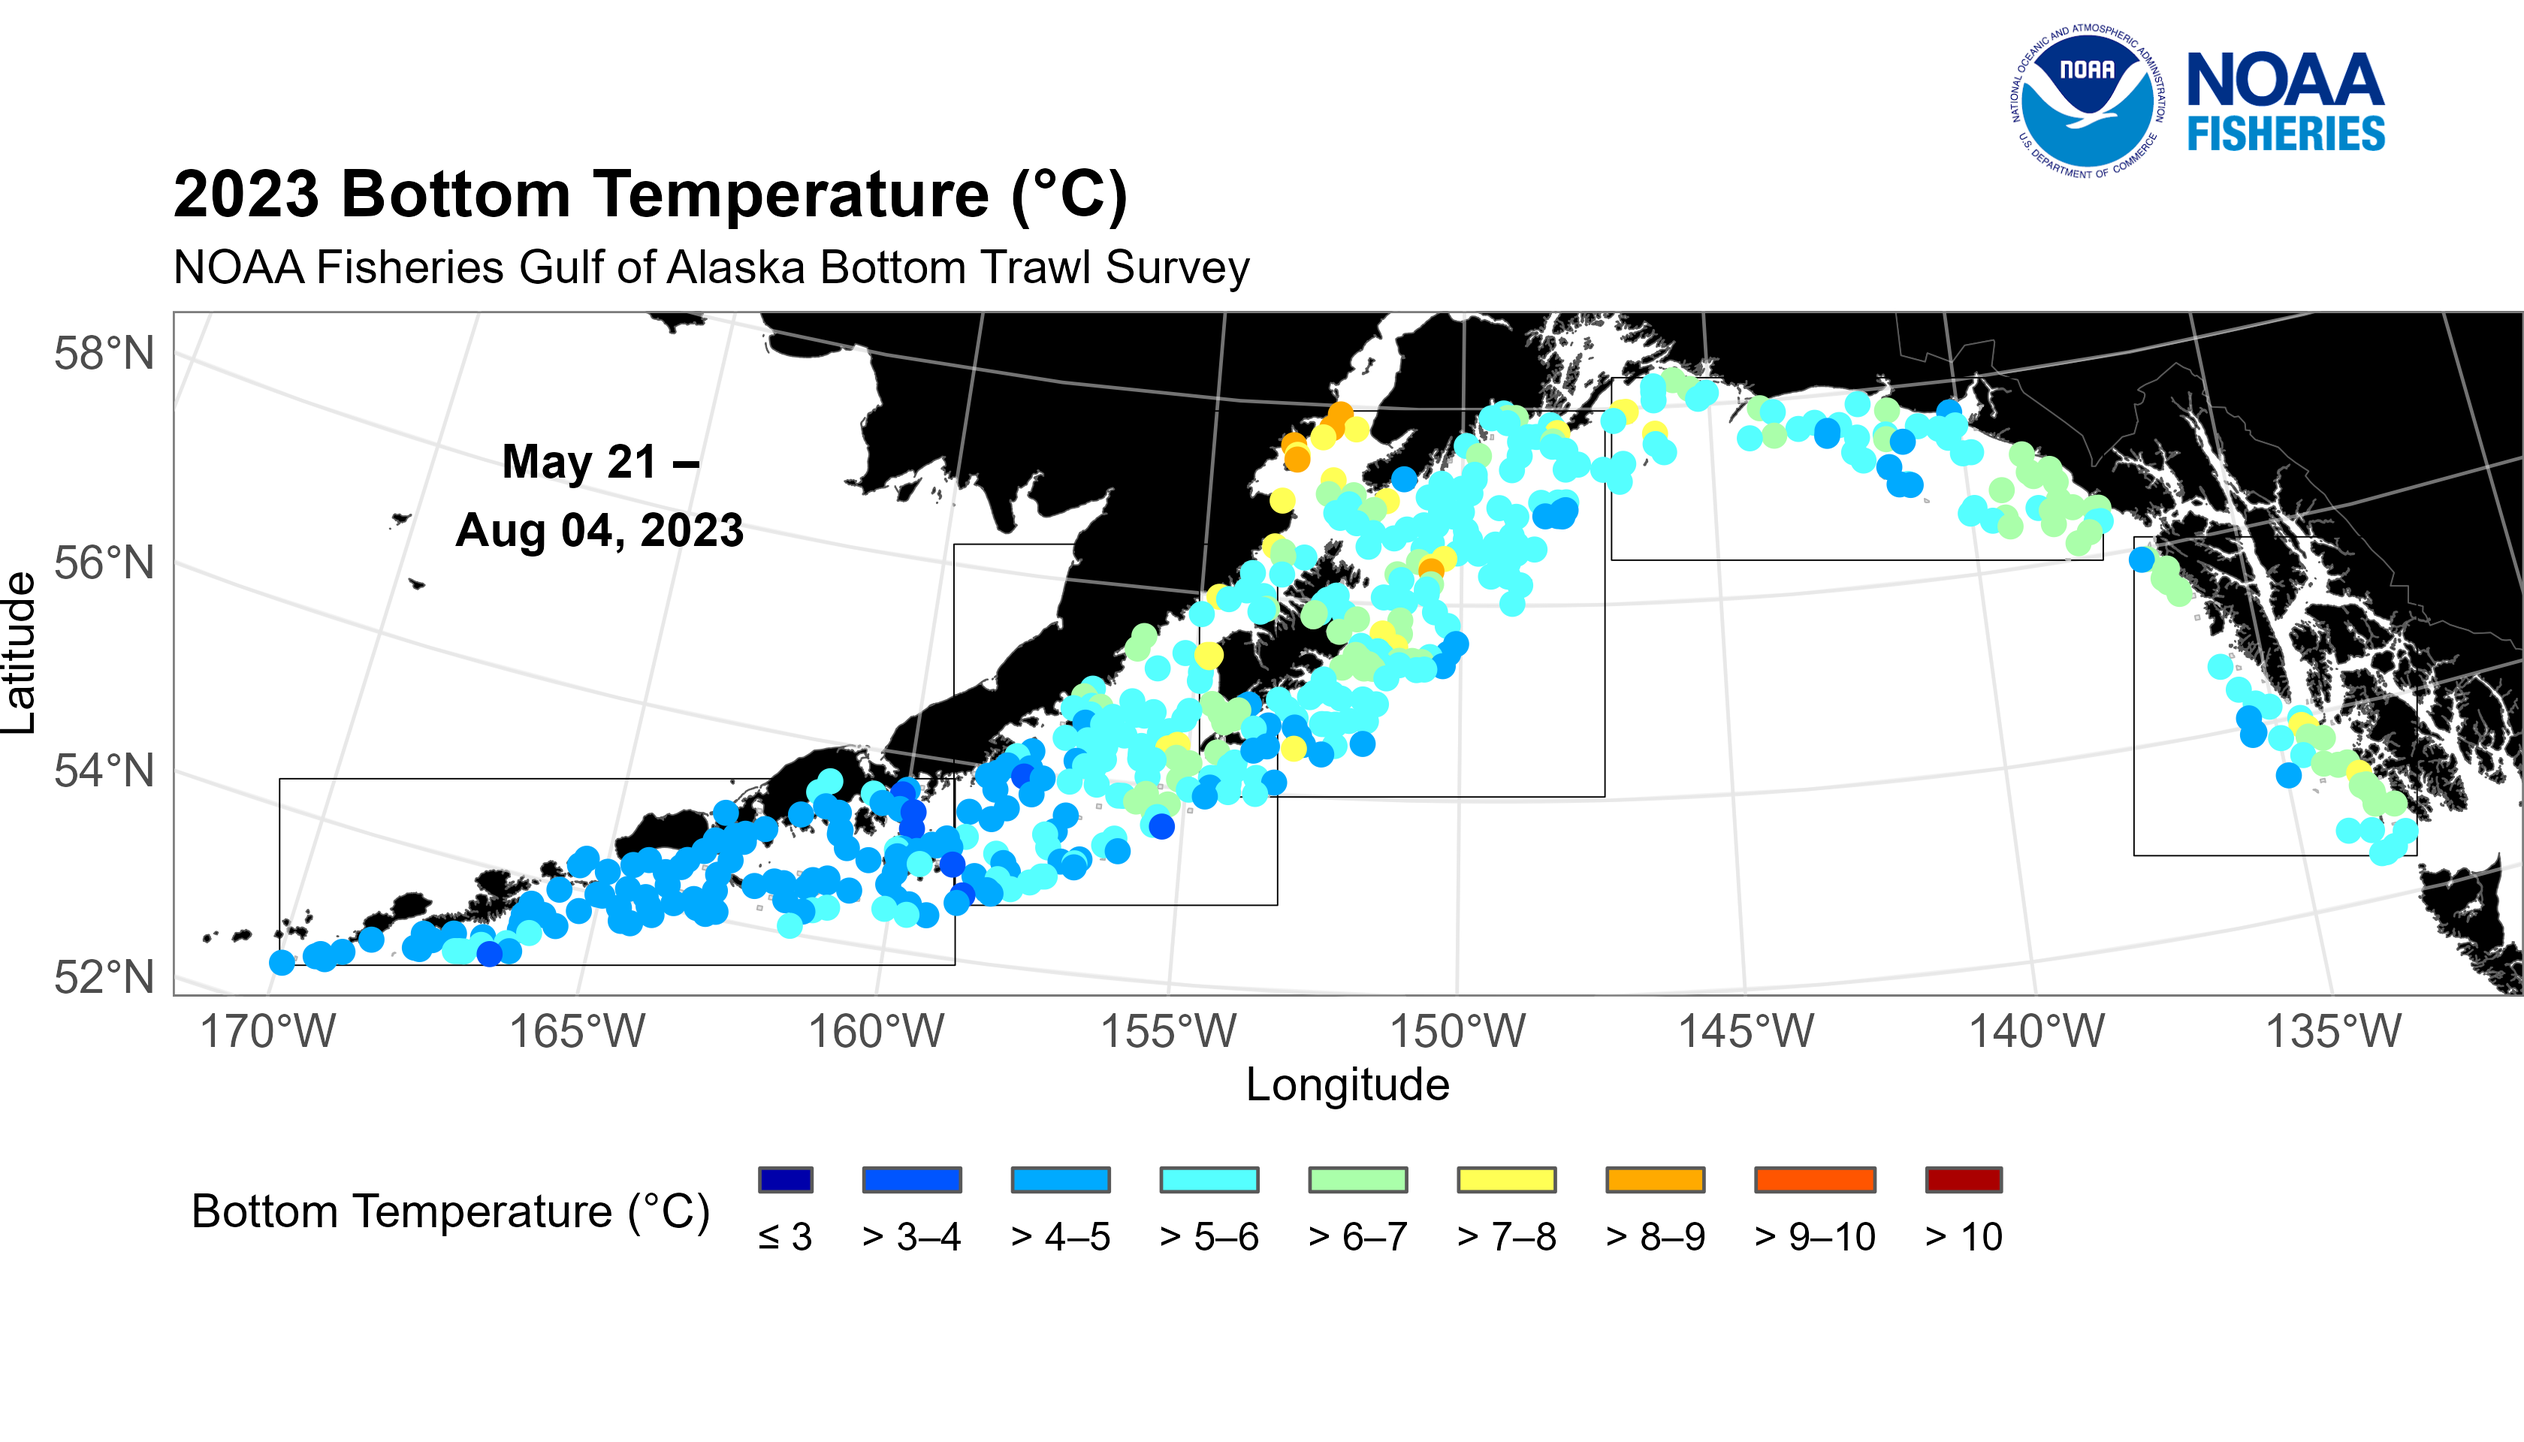
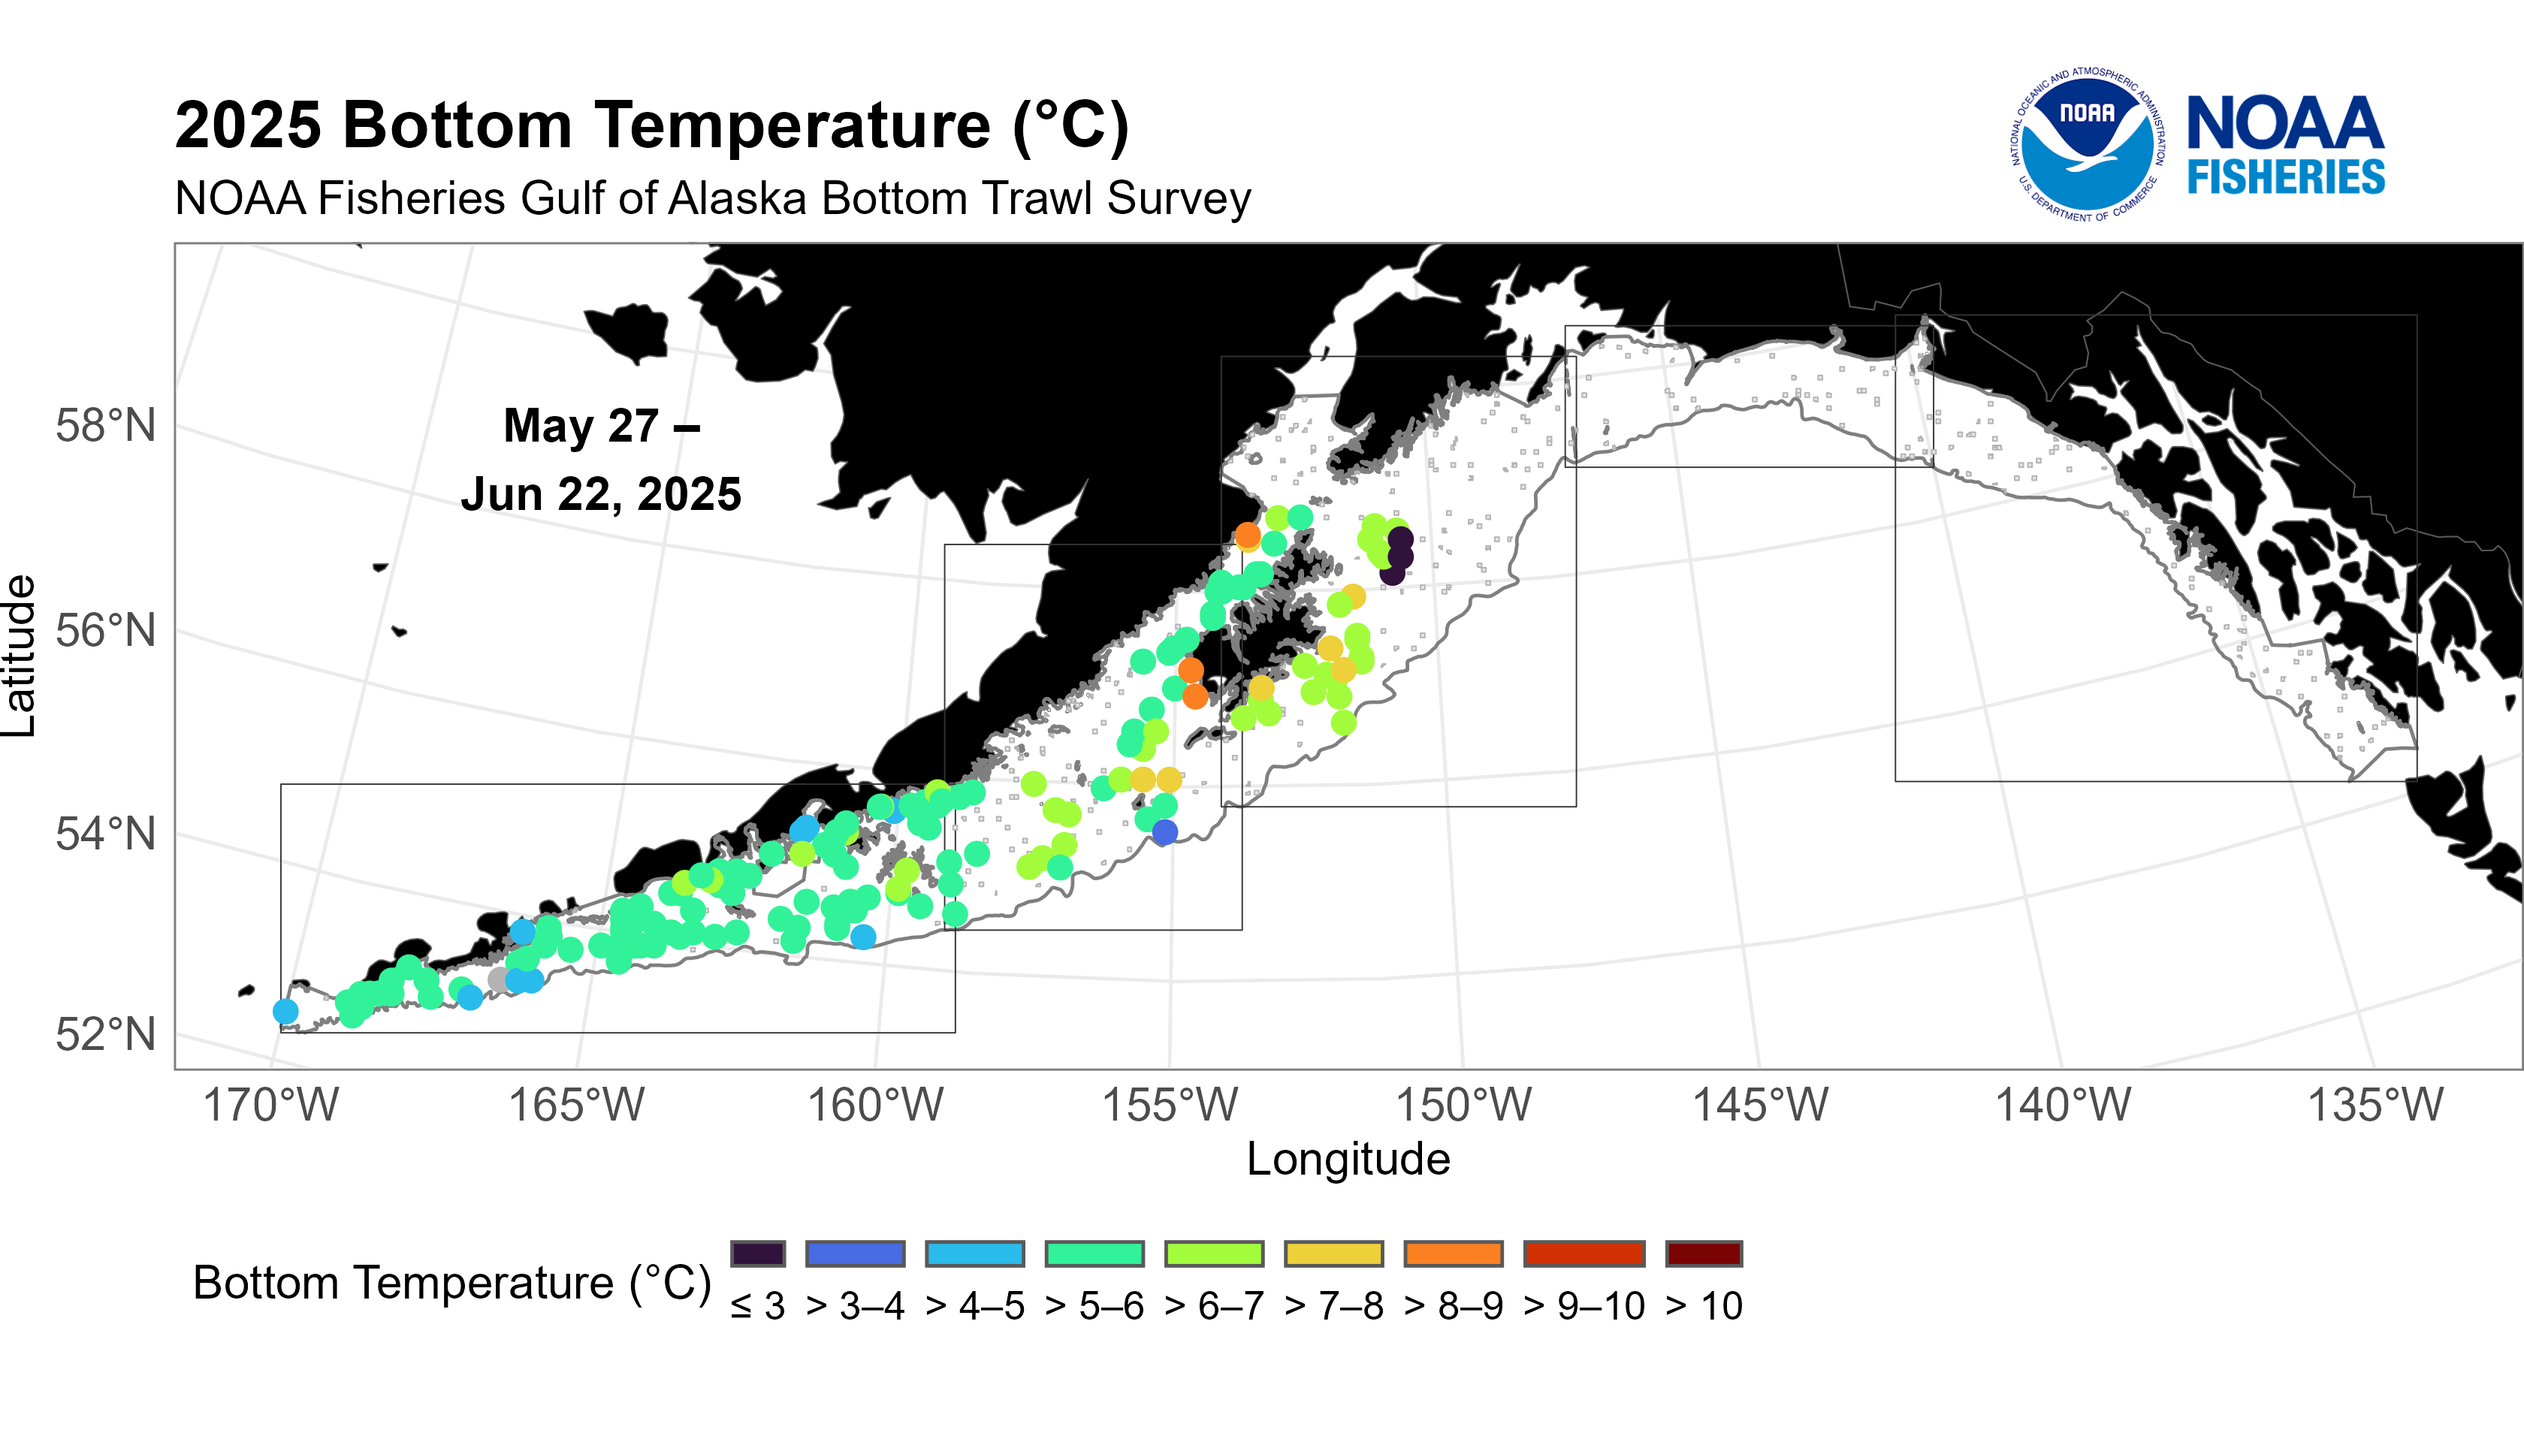
updated example images and readme

diff --git a/README.md b/README.md
@@ -83,6 +83,11 @@ communications team. These plots are displayed on the AFSC website
 
 # Notes
 
+You will need to install
+<https://www.ffmpeg.org/download.html#build-windows> so video files can
+compile using the `magick` package, which works well with Task
+Scheduler.
+
 - [How to set up the task
   scheduler](https://docs.google.com/document/d/1pwBmR6AqgnvUx_AiWYQxtYxIRjWMfdd5EPWwFvpI3Ug/edit)
 - Files are saved to our internal dev FTP server and google drive.
@@ -107,19 +112,15 @@ Find more plot examples
 *were* *surveyed* *by* *the* *F/V* *Ocean* *Explorer.* *No* *stations*
 *were* *surveyed* *by* *the* *F/V* *Alaska* *Provider.* *Credit:* *NOAA*
 *Fisheries*](https://github.com/afsc-gap-products/survey-live-temperature-map/blob/main/examples/current_daily_ai.gif)
-, ![*NOAA* *Fisheries* *scientists* *are* *providing* *information* *on*
-*ocean* *temperatures* *observed* *during* *the* *Gulf* *of* *Alaska*
-*Bottom* *Trawl* *Survey* *in* *2023* *Credit:* *NOAA*
-*Fisheries.*](https://github.com/afsc-gap-products/survey-live-temperature-map/blob/main/examples/current_daily_goa.gif)
-, ![*Map* *of* *the* *ocean* *bottom* *temperatures* *from* *the* *2023*
-*eastern* *and* *northern* *Bering* *Sea* *bottom* *trawl* *surveys*
-*aboard* *the* *F/V* *Northwest* *Explorer* *and* *F/V* *Alaska*
-*Knight.* *Updated* *colors:* *This* *year* *in* *an* *effort* *to*
-*make* *the* *heatmaps* *more* *accessible* *to* *a* *broader*
-*audience* *a* *new* *color* *scheme* *was* *used* *for* *our*
-*heatmaps.* *However,* *given* *feedback* *we* *have* *received* *we*
-*are* *reverting* *back* *to* *the* *colors* *used* *in* *previous*
-*years.* *Credit:* *NOAA*
+, ![*NOAA* *Fisheries* *Alaska* *Fisheries* *Science* *Center*
+*Groundfish* *Assessment* *Program* *is* *conducting* *the* *eastern*
+*Bering* *Sea* *and* *northern* *Bering* *Sea* *bottom* *trawl*
+*surveys.* *The* *near* *real-time* *ocean* *bottom* *temperatures*
+*depicted* *were* *collected* *May* *31-June* *22* *On* *June* *22,*
+*three* *stations* *were* *surveyed* *by* *the* *F/V* *Northwest*
+*Explorer.* *No* *stations* *were* *surveyed* *by* *the* *F/V* *Alaska*
+*Knight.* *There* *are* *8* *stations* *planned* *for* *June* *23*
+*Credit:* *NOAA*
 *Fisheries*](https://github.com/afsc-gap-products/survey-live-temperature-map/blob/main/examples/current_daily_bs.gif)
 , ![*NOAA* *Fisheries* *AFSC* *Groundfish* *Assessment* *Program*
 *conducted* *the* *eastern* *Bering* *Sea* *bottom* *trawl* *survey.*
@@ -134,40 +135,57 @@ Find more plot examples
 *There* *are* *8* *stations* *planned* *for* *June* *22* *Credit:*
 *NOAA*
 *Fisheries*](https://github.com/afsc-gap-products/survey-live-temperature-map/blob/main/examples/current_daily_ebs.gif)
+, ![*NOAA* *Fisheries* *Alaska* *Fisheries* *Science* *Center*
+*Groundfish* *Assessment* *Program* *is* *conducting* *the* *Gulf* *of*
+*Alaska* *bottom* *trawl* *survey.* *The* *near* *real-time* *ocean*
+*bottom* *temperatures* *depicted* *were* *collected* *May* *27-June*
+*22* *On* *June* *22,* *eight* *stations* *were* *surveyed* *by* *the*
+*F/V* *Alaska* *Provider* *and* *six* *stations* *were* *surveyed* *by*
+*the* *F/V* *Ocean* *Explorer.* *Stations* *yet* *to* *be* *sampled*
+*are* *shown* *as* *gray* *dots.* *Credit:* *NOAA*
+*Fisheries*](https://github.com/afsc-gap-products/survey-live-temperature-map/blob/main/examples/current_daily_goa.gif)
 
 ## Blank, Grid-only Plot
 
-![*The* *Aleutian* *Islands* *bottom* *trawl* *survey.* *This* *survey*
-*covers* *the* *Central* *Aleutians,* *Eastern* *Aleutians,* *Southern*
-*Bering* *Sea,* *and* *Western* *Aleutians* *districts.* *Credit:*
-*NOAA*
+![*The* *NA* *bottom* *trawl* *survey.* *This* *survey* *covers* *the*
+*Central* *Aleutians,* *Eastern* *Aleutians,* *South* *Bering* *Sea,*
+*and* *Western* *Aleutians* *districts.* *Credit:* *NOAA*
 *Fisheries*](https://github.com/afsc-gap-products/survey-live-temperature-map/blob/main/examples/current_grid_ai.png)
-, ![*The* *Gulf* *of* *Alaska* *bottom* *trawl* *survey* *region.*
-*This* *survey* *covers* *the* *Shumagin,* *Chirikof,* *Kodiak,*
-*Yakutat,* *and* *Southeastern* *subregions.* *Credit:* *NOAA*
-*Fisheries.*](https://github.com/afsc-gap-products/survey-live-temperature-map/blob/main/examples/current_grid_goa.png)
 , ![*Map* *of* *the* *eastern* *Bering* *Sea* *and* *northern* *Bering*
 *Sea* *2023* *survey* *stations* *with* *the* *50m,* *100m,* *and*
 *200m* *bathymetry* *lines.* *Credit:* *NOAA*
 *Fisheries.*](https://github.com/afsc-gap-products/survey-live-temperature-map/blob/main/examples/current_grid_bs.png)
-, ![*Map* *of* *the* *eastern* *Bering* *Sea* *2024* *survey* *station*
-*grid* *and* *the* *50* *m,* *100* *m,* *and* *200* *m* *bathymetry*
-*lines.* *Credit:* *NOAA*
+, ![*Map* *of* *the* *eastern* *Bering* *Sea* *and* *northern* *Bering*
+*Sea* *2025* *survey* *station* *grid* *and* *the* *50* *m,* *100* *m,*
+*and* *200* *m* *bathymetry* *lines.* *Credit:* *NOAA*
 *Fisheries*](https://github.com/afsc-gap-products/survey-live-temperature-map/blob/main/examples/current_grid_ebs.png)
+, ![*The* *Gulf* *of* *Alaska* *bottom* *trawl* *survey.* *This*
+*survey* *covers* *the* *Shumagin,* *Chirikof,* *Kodiak,* *Yakutat,*
+*and* *Southeastern* *districts.* *Credit:* *NOAA*
+*Fisheries*](https://github.com/afsc-gap-products/survey-live-temperature-map/blob/main/examples/current_grid_goa.png)
 
 ## Mean Plot
 
 <figure>
 <img
 src="https://github.com/afsc-gap-products/survey-live-temperature-map/blob/main/examples/current_mean_bs.png"
-alt="Mean bottom temperatures in the NOAA Fisheries eastern (1982-2022; 40 years) and northern Bering Sea (2010-2022; 5 years) Bottom Trawl Surveys. Credit: NOAA Fisheries." />
-<figcaption aria-hidden="true"><em>Mean</em> <em>bottom</em>
-<em>temperatures</em> <em>in</em> <em>the</em> <em>NOAA</em>
-<em>Fisheries</em> <em>eastern</em> <em>(1982-2022;</em> <em>40</em>
-<em>years)</em> <em>and</em> <em>northern</em> <em>Bering</em>
-<em>Sea</em> <em>(2010-2022;</em> <em>5</em> <em>years)</em>
-<em>Bottom</em> <em>Trawl</em> <em>Surveys.</em> <em>Credit:</em>
-<em>NOAA</em> <em>Fisheries.</em></figcaption>
+alt="The time series mean bottom temperatures from the NOAA Fisheries eastern Bering Sea (1982-2024; 42 years) and northern Bering Sea (2010-2023; 6 years) bottom trawl surveys. These data are publicly accessible on Fisheries One Stop Shop data platform (https://www.fisheries.noaa.gov/foss) and the coldpool R package (https://github.com/afsc-gap-products/coldpool). Credit: NOAA Fisheries" />
+<figcaption aria-hidden="true"><em>The</em> <em>time</em>
+<em>series</em> <em>mean</em> <em>bottom</em> <em>temperatures</em>
+<em>from</em> <em>the</em> <em>NOAA</em> <em>Fisheries</em>
+<em>eastern</em> <em>Bering</em> <em>Sea</em> <em>(1982-2024;</em>
+<em>42</em> <em>years)</em> <em>and</em> <em>northern</em>
+<em>Bering</em> <em>Sea</em> <em>(2010-2023;</em> <em>6</em>
+<em>years)</em> <em>bottom</em> <em>trawl</em> <em>surveys.</em>
+<em>These</em> <em>data</em> <em>are</em> <em>publicly</em>
+<em>accessible</em> <em>on</em> <em>Fisheries</em> <em>One</em>
+<em>Stop</em> <em>Shop</em> <em>data</em> <em>platform</em> <em>(<a
+href="https://www.fisheries.noaa.gov/foss"
+class="uri">https://www.fisheries.noaa.gov/foss</a>)</em> <em>and</em>
+<em>the</em> <em>coldpool</em> <em>R</em> <em>package</em> <em>(<a
+href="https://github.com/afsc-gap-products/coldpool"
+class="uri">https://github.com/afsc-gap-products/coldpool</a>).</em>
+<em>Credit:</em> <em>NOAA</em> <em>Fisheries</em></figcaption>
 </figure>
 
 ## Anomaly Plot
@@ -191,8 +209,8 @@ alt="Ocean bottom temperature anomaly of the mean bottom temperatures from the e
 # Relevant publications
 
 **Learn more about these surveys and ocean temperatures around Alaska**
-(Hoff, 2016; Markowitz et al., 2023, 2023; Rohan et al., 2022; Von
-Szalay et al., 2023; Von Szalay and Raring, 2018).
+(Hoff, 2016; Markowitz et al., 2024, 2024; Rohan et al., 2022; Siple et
+al., 2024; Von Szalay et al., 2023; Zacher et al., 2024).
 
 <div id="refs" class="references csl-bib-body hanging-indent"
 entry-spacing="0" line-spacing="2">
@@ -206,14 +224,14 @@ continental slope survey of groundfishes and invertebrate resources*
 
 </div>
 
-<div id="ref-2022NEBS2023" class="csl-entry">
+<div id="ref-2023NEBS" class="csl-entry">
 
-Markowitz, E. H., Dawson, E. J., Anderson, A. B., Rohan, S. K.,
-Charriere, N. E., Prohaska, B. K., and Stevenson, D. E. (2023). *Results
-of the 2022 eastern and northern Bering Sea continental shelf bottom
-trawl survey of groundfish and invertebrate fauna* (NOAA Tech. Memo.
-NMFS-AFSC-469; p. 213). U.S. Dep. Commer.
-<https://doi.org/10.25923/rt50-th19>
+Markowitz, E. H., Dawson, E. J., Wassermann, S., Anderson, C. B., Rohan,
+S. K., Charriere, B. K., and Stevenson, D. E. (2024). *Results of the
+2023 eastern and northern Bering Sea continental shelf bottom trawl
+survey of groundfish and invertebrate fauna* (NOAA Tech. Memo.
+NMFS-AFSC-487; p. 242). U.S. Dep. Commer.
+<https://doi.org/10.25923/2mry-yx09>
 
 </div>
 
@@ -227,12 +245,12 @@ NMFS-AFSC-456; p. 42). U.S. Dep. Commer.
 
 </div>
 
-<div id="ref-GOA2018" class="csl-entry">
+<div id="ref-GOA2023" class="csl-entry">
 
-Von Szalay, P. G., and Raring, N. W. (2018). *Data report: 2017
-<span class="nocase">Gulf of Alaska</span> bottom trawl survey* (NOAA
-Tech. Memo. NMFS-AFSC-374). U.S. Dep. Commer.
-<https://doi.org/10.7289/V5/TM-AFSC-374>
+Siple, M. C., Szalay, P. G. von, Raring, N. W., Dowlin, A. N., and
+Riggle, B. C. (2024). *Data report: 2023 gulf of alaska bottom trawl
+survey* (NOAA Tech. Memo. AFSC processed report; 2024-09). U.S. Dep.
+Commer. <https://doi.org/10.25923/gbb1-x748>
 
 </div>
 
@@ -242,6 +260,15 @@ Von Szalay, P. G., Raring, N. W., Siple, M. C., Dowlin, A. N., Riggle,
 B. C., and Laman, E. A. and. (2023). *Data report: 2022 Aleutian Islands
 bottom trawl survey* (AFSC Processed Rep. 2023-07; p. 230). U.S. Dep.
 Commer. <https://doi.org/10.25923/85cy-g225>
+
+</div>
+
+<div id="ref-SAPcrab2024" class="csl-entry">
+
+Zacher, L. S., Richar, J. I., Fedewa, E. J., Ryznar, E. R., and Litzow,
+M. A. (2024). *The 2024 eastern Bering Sea continental shelf trawl
+survey: Results for commercial crab species DRAFT* \[NOAA Tech. Memo.\].
+<https://www.fisheries.noaa.gov/resource/document/draft-2024-eastern-bering-sea-crab-technical-memorandum>
 
 </div>
 
